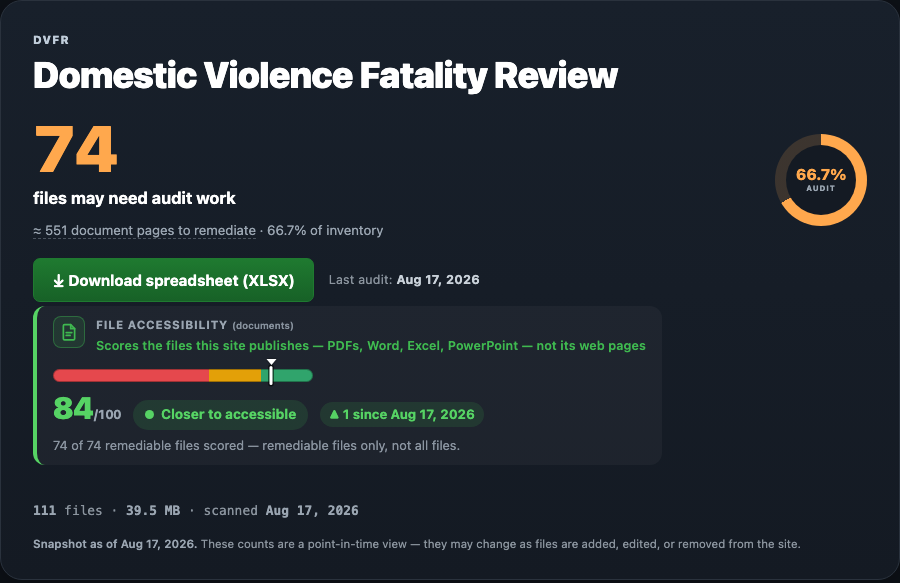
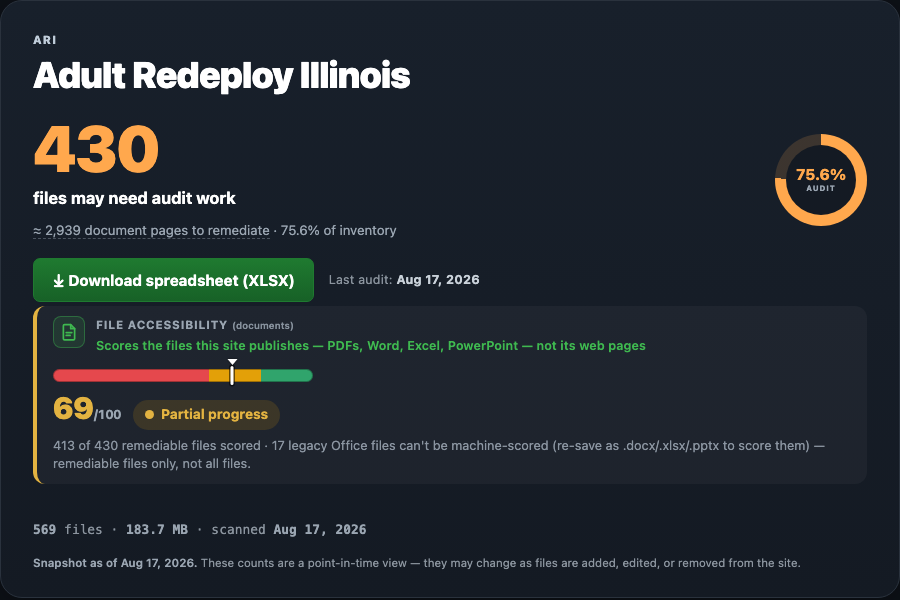
fix: /help walks one example site the whole way through (v1.61.6)
Step 1 showed Adult Redeploy Illinois's card and step 2 showed Domestic
Violence Fatality Review's report. A reader following the steps could not
tell whether the two panels were one journey or two — which is the exact
confusion this page exists to remove.

The report screenshot is re-shot from ARI, so all three pictures, every
caption, the alt text, the example filename, and the worked-example table
now walk the same site. Step 2's lede says so outright: "Both pictures below
show the same site as step 1." The worked example's page paths follow ARI's
real URL shape (/adultredeploy/publications/, /grants/, /about/) instead of
reading like a different site's.

Tests pin the rule rather than the fix. Every screenshot's alt text must name
the example site; every example row must sit under its URL prefix; no other
ICJIA site may appear in a picture, caption, or example row; and the captions
must carry the site's real numbers (569 files, 430 may need audit, 69/100).
Swapping one screenshot for another site now fails the build instead of
quietly splitting the walkthrough in two again.

docs/help-screenshots.md records why they have to be re-shot together, and
the report shot's new dimensions (900 x 600).

1,669 tests / 104 files green, eslint clean.

diff --git a/src/web/help-page.js b/src/web/help-page.js
@@ -39,10 +39,17 @@
 //      the result into Notes is the last, smallest part of the step.
 //
 // The screenshots are static PNGs committed at assets/help/ and copied
-// into the bundle by web-rollup. They show ARI (a site card) and DVFR (a
-// site report) as of the August 2026 rollup; the prose names those sites
-// as examples so the pictures and the words agree. Re-shoot them if the
-// card or report header is redesigned — see docs/help-screenshots.md.
+// into the bundle by web-rollup.
+//
+// ONE EXAMPLE SITE, ALL THE WAY THROUGH. Every screenshot, caption, alt
+// text, filename, and worked example uses Adult Redeploy Illinois (ARI)
+// as of the August 2026 rollup. An earlier version showed ARI's card in
+// step 1 and DVFR's report in step 2, and a reader following along could
+// not tell whether the two panels were the same journey or two different
+// ones — which is exactly the confusion this page exists to remove. If
+// you re-shoot against a different site, change ALL of them together and
+// re-run the tests; several pin ARI's numbers. See
+// docs/help-screenshots.md.
 
 import { INDEX_CSS } from "./index-css.js";
 import { renderSiteFooter, siteFooterCss } from "./site-footer.js";
@@ -92,8 +99,8 @@ const SHOTS = {
   downloadReport: {
     file: "step-download-report.png",
     width: 900,
-    height: 583,
-    alt: "The top of a site report for Domestic Violence Fatality Review, showing 74 files may need audit work, a green Download spreadsheet (XLSX) button, the date of the last audit, and a file accessibility score of 84 out of 100.",
+    height: 600,
+    alt: "The top of the site report for Adult Redeploy Illinois, showing 430 files may need audit work, a green Download spreadsheet (XLSX) button, the date of the last audit, and a file accessibility score of 69 out of 100.",
   },
 };
 
@@ -323,26 +330,30 @@ function renderColumnMap() {
  * already filled in so the finished state is unambiguous.
  */
 function renderExampleGrid() {
+  // Same site as every screenshot on this page — see the ONE EXAMPLE SITE
+  // note at the top of the module. Paths follow ARI's real URL shape
+  // (icjia.illinois.gov/adultredeploy/…) so the example reads as one
+  // continuous walk-through rather than three unrelated fragments.
   const rows = [
     {
       file: "annual_report_2019.pdf",
-      page: "/publications/",
+      page: "/adultredeploy/publications/",
       score: "41",
       note: "archive",
       kind: "archive",
       why: "The 2025 edition replaced it.",
     },
     {
-      file: "minutes_2026-05-12.pdf",
-      page: "/meetings/may-2026/",
+      file: "grant_application_2026.pdf",
+      page: "/adultredeploy/grants/",
       score: "58",
       note: "remediate",
       kind: "remediate",
       why: "Still linked, and the score is low.",
     },
     {
-      file: "statute_725ilcs_signed.pdf",
-      page: "/about/",
+      file: "authorizing_statute_signed.pdf",
+      page: "/adultredeploy/about/",
       score: "62",
       note: "as-is",
       kind: "asis",
@@ -360,7 +371,7 @@ function renderExampleGrid() {
     )
     .join("\n      ");
   return `<figure class="hp-grid-wrap">
-    <figcaption class="hp-grid-cap">What a decided row looks like. The score and the page told the story; the Notes cell just records the outcome.</figcaption>
+    <figcaption class="hp-grid-cap">Three rows from the same site's spreadsheet, decided. The score and the page told the story; the Notes cell just records the outcome.</figcaption>
     <div class="hp-grid-scroll">
       <table class="hp-grid">
         <thead>
@@ -592,7 +603,7 @@ export function generateHelpHtml({ generatedAt = "", siteCount = 0 } = {}) {
   const step2 = renderStep({
     n: "2",
     title: "Download the spreadsheet",
-    lede: `Two buttons do this, in two different places. They download <em>the same file</em> &mdash; use whichever you reach first.`,
+    lede: `Two buttons do this, in two different places. They download <em>the same file</em> &mdash; use whichever you reach first. Both pictures below show the same site as step 1.`,
     body: `<div class="hp-routes">
       <div class="hp-route">
         <p class="hp-route-tag">The quick way</p>
@@ -602,7 +613,7 @@ export function generateHelpHtml({ generatedAt = "", siteCount = 0 } = {}) {
       <div class="hp-route">
         <p class="hp-route-tag">From the site's report</p>
         <p class="hp-route-text">Or click <strong>View detailed report</strong> first, to see the site's scores. The green <strong>Download spreadsheet (XLSX)</strong> button sits at the top of that page.</p>
-        ${renderShot(SHOTS.downloadReport, { caption: `At the top of the site's report page.` })}
+        ${renderShot(SHOTS.downloadReport, { caption: `The same site's report page &mdash; the green button at the top gives you the identical file.` })}
       </div>
     </div>
 
@@ -613,7 +624,7 @@ export function generateHelpHtml({ generatedAt = "", siteCount = 0 } = {}) {
         <dt>Look in</dt>
         <dd>Your <strong>Downloads</strong> folder, or the download icon your browser puts near the address bar.</dd>
         <dt>It is called</dt>
-        <dd><code class="hp-filename">dvfr-20260818-004356Z.xlsx</code> &mdash; your site's short code, then the date of the audit. Yours will carry a different code and date.</dd>
+        <dd><code class="hp-filename">ari-20260818-004812Z.xlsx</code> &mdash; your site's short code, then the date of the audit. Yours will carry a different code and date.</dd>
         <dt>Open it with</dt>
         <dd>Excel, Apple Numbers, or Google Sheets. All three read it.</dd>
         <dt>If nothing arrived</dt>

diff --git a/test/help-page.test.js b/test/help-page.test.js
@@ -294,6 +294,61 @@ describe("help page — screenshots", () => {
   });
 });
 
+// v1.61.6 — step 1 showed ARI's card and step 2 showed DVFR's report, so a
+// reader following along could not tell whether the two panels were one
+// journey or two. That is the exact confusion this page exists to remove.
+// Every screenshot, caption, and worked example now walks one site.
+describe("help page — one example site, all the way through", () => {
+  const EXAMPLE = "Adult Redeploy Illinois";
+  const OTHER_SITES = [
+    "Domestic Violence Fatality Review",
+    "Safe From the Start",
+    "ICJIA Research Hub",
+    "Illinois Family Violence Coordinating Council",
+    "Violence Prevention Project",
+    "Institute to Innovate",
+    "ICJIA Document Archive",
+  ];
+
+  /** Alt text, captions, and the worked-example table — everything that
+   *  ties a picture or a row to a particular site. */
+  const narrative = () => [
+    ...[...html.matchAll(/<img [^>]*alt="([^"]+)"/g)].map((m) => m[1]),
+    ...[...html.matchAll(/<figcaption[^>]*>([\s\S]*?)<\/figcaption>/g)].map((m) => m[1]),
+    ...[...html.matchAll(/<td class="hp-grid-page">([^<]+)<\/td>/g)].map((m) => m[1]),
+  ].join("\n");
+
+  it("names that site in the screenshots that show it", () => {
+    const alts = [...html.matchAll(/<img [^>]*alt="([^"]+)"/g)].map((m) => m[1]);
+    expect(alts.length).toBe(3);
+    const naming = alts.filter((a) => a.includes(EXAMPLE));
+    expect(naming.length, "the card and the report shots both name the site").toBeGreaterThanOrEqual(2);
+  });
+
+  it("keeps the worked example on that site's URL shape", () => {
+    const paths = [...html.matchAll(/<td class="hp-grid-page">([^<]+)<\/td>/g)].map((m) => m[1]);
+    expect(paths.length).toBeGreaterThan(0);
+    for (const path of paths) {
+      expect(path, `${path} should sit under the example site`).toContain("/adultredeploy/");
+    }
+  });
+
+  it("lets no other site into a picture, caption, or example row", () => {
+    const text = narrative();
+    for (const site of OTHER_SITES) {
+      expect(text, `the walkthrough should not switch to ${site}`).not.toContain(site);
+    }
+  });
+
+  it("carries the example site's real numbers in the captions", () => {
+    // 569 total / 430 may need audit / 69 file-accessibility, as shot.
+    expect(html).toContain("569 files");
+    expect(html).toContain("430 of them may need accessibility work");
+    expect(html).toContain("430 files may need audit work");
+    expect(html).toContain("69 out of 100");
+  });
+});
+
 describe("help nav link", () => {
   // Labelled "Help", never "Start here": the earlier label read as a gate
   // the reader had to pass before using the rest of the site.

diff --git a/docs/help-screenshots.md b/docs/help-screenshots.md
@@ -9,13 +9,17 @@ committed to the repo and copied verbatim into the bundle by `web-rollup`
 |---|---|---|
 | `step-find-site.png` | 420 × 660 | A site card on the fleet index, cropped to its identity: image, short code, name, URL, description, and the two number tiles. |
 | `step-download-card.png` | 420 × 206 | The bottom of a site card — the `View detailed report` and `Download spreadsheet` buttons with the `Last audit` caption. |
-| `step-download-report.png` | 900 × 583 | The top of a per-site report — headline count, the green `Download spreadsheet (XLSX)` button, and the File accessibility card. |
+| `step-download-report.png` | 900 × 600 | The top of a per-site report — headline count, the green `Download spreadsheet (XLSX)` button, and the File accessibility card. |
 
-They were shot against **ARI** (the card) and **DVFR** (the report) from the
-2026-08-18 rollup. The prose in `help-page.js` names those two sites, and the
-captions quote their numbers (569 / 430 files, 74 files, score 84) — so if you
-re-shoot against different sites, update the captions and the alt text with
-them, and re-run `npx vitest run test/help-page.test.js`.
+**All three are the same site: Adult Redeploy Illinois (ARI).** That is not
+incidental. An earlier version shot the card from ARI and the report from
+DVFR, and a reader following the steps could not tell whether the two panels
+were one journey or two — the exact confusion the page exists to remove. If
+you re-shoot, re-shoot **all of them against one site**, and update the
+captions and alt text with that site's numbers (currently 569 total files,
+430 may need audit, file accessibility 69/100), then re-run
+`npx vitest run test/help-page.test.js`. The worked-example table in step 4
+uses the same site's URL shape too.
 
 ## When to re-shoot
 

diff --git a/CHANGELOG.md b/CHANGELOG.md
@@ -10,6 +10,30 @@ and this project adheres to [Semantic Versioning](https://semver.org/spec/v2.0.0
 > tooling — run it from the GitHub repository, not from npm. Releases are still
 > tagged in git and documented below; they are no longer published to npm.
 
+## [1.61.6] — 2026-08-19
+
+### Fixed — `/help` walks one example site the whole way through
+
+- Step 1 showed **Adult Redeploy Illinois**'s card and step 2 showed
+  **Domestic Violence Fatality Review**'s report. A reader following the
+  steps could not tell whether the two panels were one journey or two — the
+  exact confusion this page exists to remove.
+- The report screenshot is re-shot from **ARI**, so all three pictures, every
+  caption, the alt text, the example filename
+  (`ari-20260818-004812Z.xlsx`), and the worked-example table now walk the
+  same site. Step 2's lede says so outright: "Both pictures below show the
+  same site as step 1."
+- The worked example's page paths follow ARI's real URL shape
+  (`/adultredeploy/publications/`, `/adultredeploy/grants/`,
+  `/adultredeploy/about/`) instead of reading like a different site's.
+- **Tests pin the rule, not just the fix**: every screenshot's alt text must
+  name the example site, every example row must sit under its URL prefix, no
+  other ICJIA site may appear in a picture, caption, or example row, and the
+  captions must carry the site's real numbers (569 files, 430 may need audit,
+  69/100). Swapping one screenshot for another site now fails the build.
+- `docs/help-screenshots.md` records why they must be re-shot together, and
+  the new dimensions (900 × 600).
+
 ## [1.61.5] — 2026-08-19
 
 ### Changed — the SiteImprove section makes it clearer nobody has to choose
